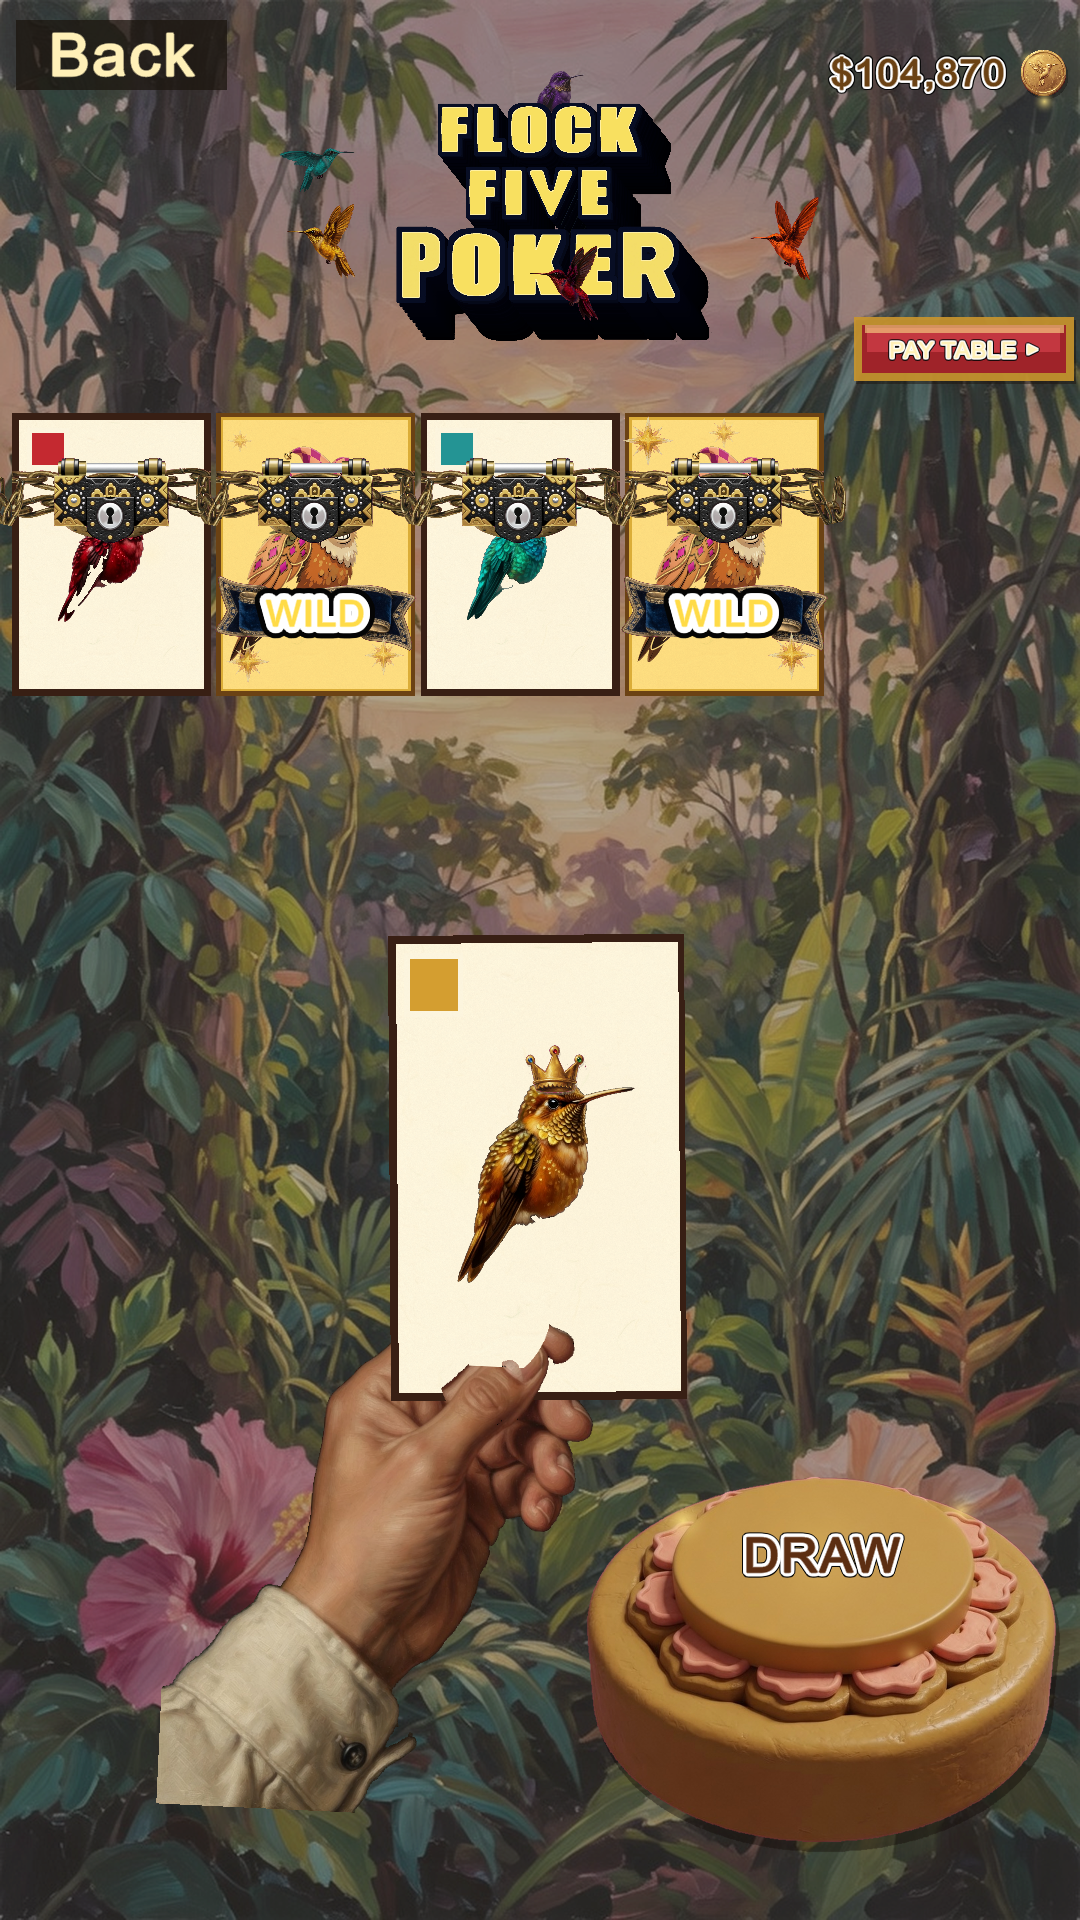
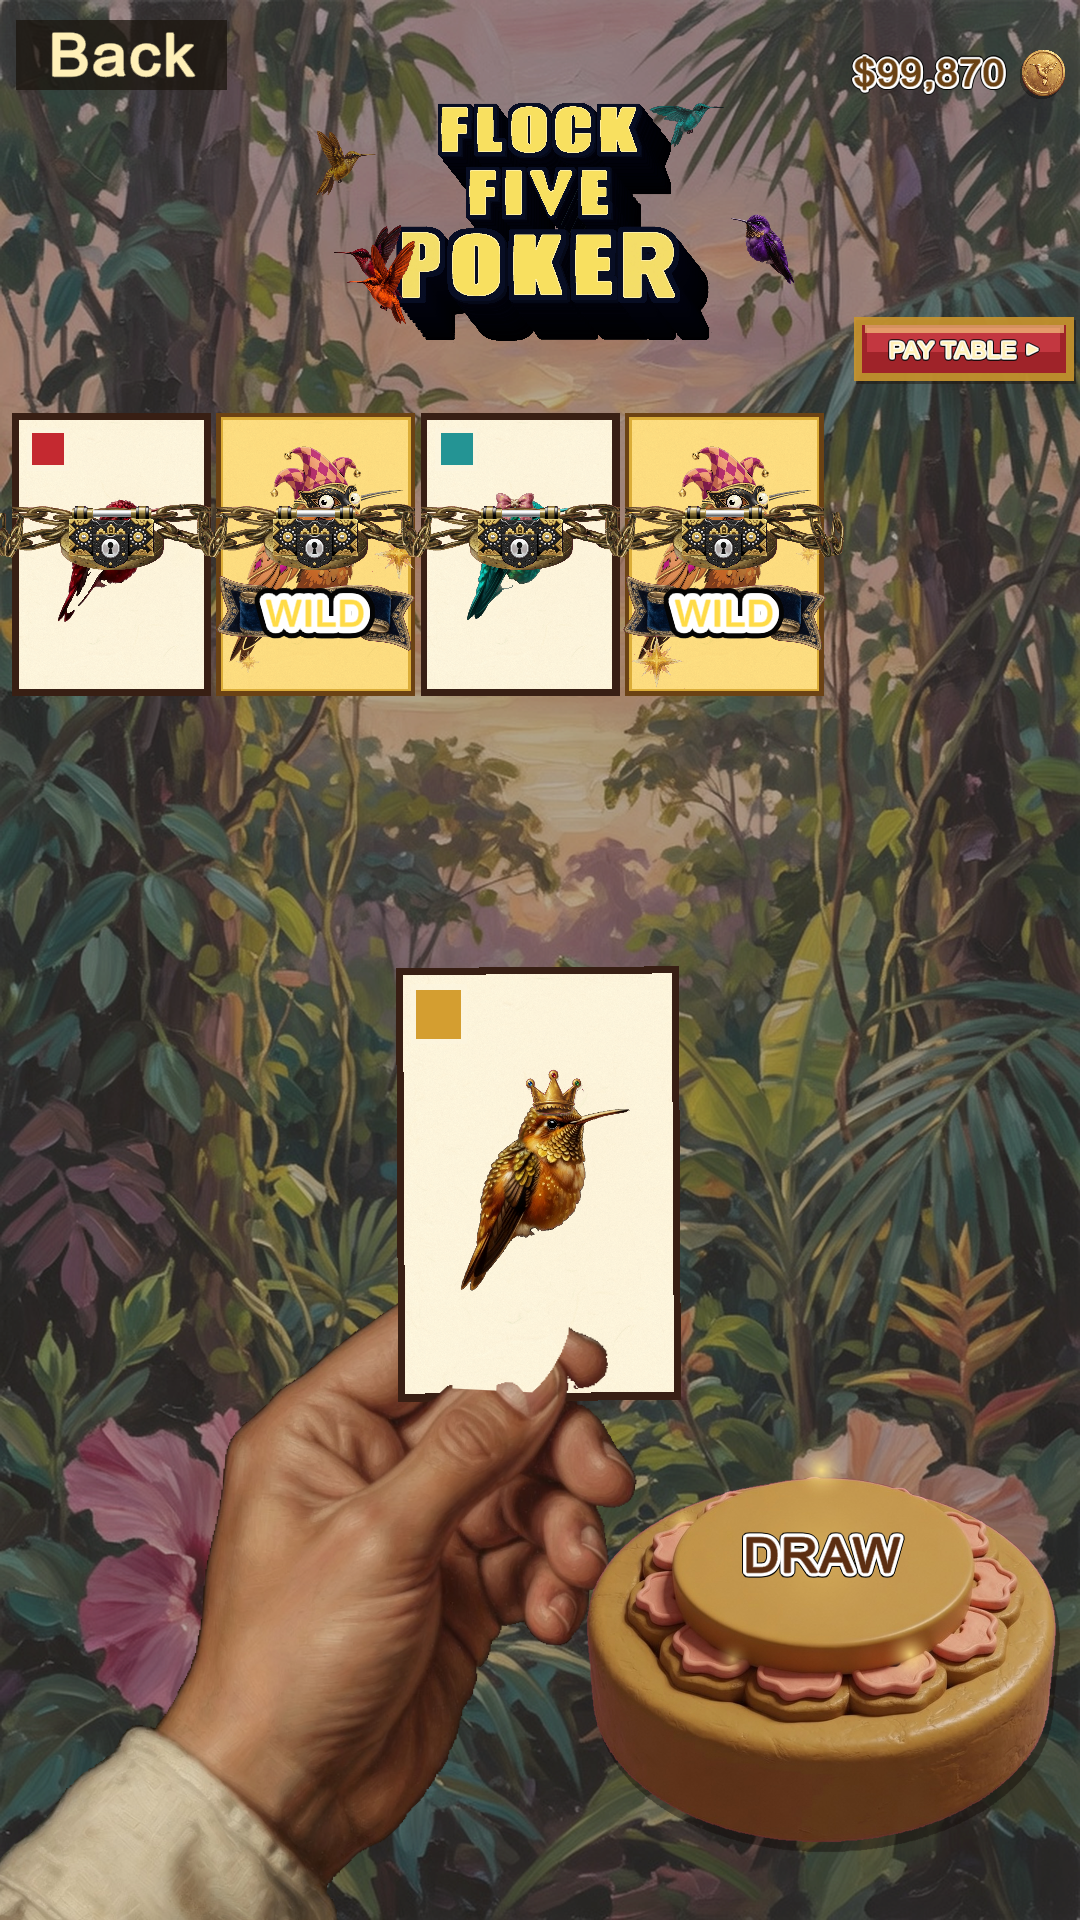
Poker: pass 5 — lower locks, unclip 5-fan thumb, arm offscreen
Thumb clip on the full fan was multi-card compositing: neighbor
seats (plus extra fan width) covered back-layer tip pixels. Draw
every live fan card, then the thumb; drop the 1.05 width scale;
expand the front pad to the full tip. Locks/chain sit mid-face
above the wild ribbon. Dest grows so the sleeve starts off the
left/bottom. Avoid, bottom pinch, thumb-front kept.

Playrun DONE 3/3, mid=0.

diff --git a/Assets/_Project/Scripts/App/FlockFiveApp.cs b/Assets/_Project/Scripts/App/FlockFiveApp.cs
@@ -1011,7 +1011,7 @@ namespace FlockFive
         {
             System.IO.Directory.CreateDirectory(dir);
             SpriteCatalog.DropPokerArt();
-            Debug.Log("Flock Five: ShotPokerFaces start " + dir + " pass4-thumb-front");
+            Debug.Log("Flock Five: ShotPokerFaces start " + dir + " pass5-locks-thumb-arm");
             _home = HomeFace.Poker;
             _splash = true;
             _pokerPayOpen = false;
@@ -4240,20 +4240,23 @@ namespace FlockFive
             {
                 DrawPokerFanHand(rowBox, cardW, cardH, s, false);
                 int[] order = PokerDrawOrder();
-                bool frontDone = false;
+                // Palm, then every live fan card, then thumb. A later seat must
+                // never redraw over the thumb (5-fan neighbor corners).
                 for (int o = 0; o < order.Length; o++)
                 {
                     int i = order[o];
-                    bool lifted = BirdPoker.Hold[i] && _pokerHoldSlide[i] > 0.22f;
-                    if (lifted && !frontDone)
-                    {
-                        DrawPokerFanHand(rowBox, cardW, cardH, s, true);
-                        frontDone = true;
-                    }
+                    if (PokerCardLifted(i)) continue;
                     var seat = new Rect(rowX + i * (cardW + gap), rowY, cardW, cardH);
                     DrawPokerCard(seat, i, s, holdH, rowBox);
                 }
-                if (!frontDone) DrawPokerFanHand(rowBox, cardW, cardH, s, true);
+                DrawPokerFanHand(rowBox, cardW, cardH, s, true);
+                for (int o = 0; o < order.Length; o++)
+                {
+                    int i = order[o];
+                    if (!PokerCardLifted(i)) continue;
+                    var seat = new Rect(rowX + i * (cardW + gap), rowY, cardW, cardH);
+                    DrawPokerCard(seat, i, s, holdH, rowBox);
+                }
                 DrawPokerKeepHint(rowBox, s);
                 DrawPokerFlames(rowBox, cardH, s);
                 DrawPokerDealHand(rowBox, cardW, cardH, s);
@@ -4894,7 +4897,7 @@ namespace FlockFive
         const float PokerFanSpan = 0.46f;
         // Full thumb pad/nail at the bottom-fan pinch (front layer = thumb only).
         const float PokerFanPinchU = 0.512f;
-        const float PokerFanPinchV = 0.48f;
+        const float PokerFanPinchV = 0.45f;
         const float PokerFanHandAspect = 0.80f;
 
         static float PokerAliveBreathe() => Mathf.Sin(Time.unscaledTime * 1.18f);
@@ -5419,7 +5422,22 @@ namespace FlockFive
                 + (0.90f * breathe + 0.18f * tick) * alive;
             float x = pinchX - w * PokerFanPinchU;
             float y = pinchY - h * PokerFanPinchV + (1f - u) * h * 0.35f;
-            if (x < -w * 0.08f) x = -w * 0.08f;
+            // Sleeve originates off the left/bottom. Keep the pinch locked.
+            if (x > -6f)
+            {
+                w = (pinchX + 6f) / Mathf.Max(0.12f, PokerFanPinchU);
+                h = w / PokerFanHandAspect;
+                x = pinchX - w * PokerFanPinchU;
+                y = pinchY - h * PokerFanPinchV + (1f - u) * h * 0.35f;
+            }
+            float needH = (Screen.height + 10f - pinchY) / Mathf.Max(0.12f, 1f - PokerFanPinchV);
+            if (h < needH)
+            {
+                h = needH;
+                w = h * PokerFanHandAspect;
+                x = pinchX - w * PokerFanPinchU;
+                y = pinchY - h * PokerFanPinchV + (1f - u) * h * 0.35f;
+            }
             float ang = 3.2f + 0.55f * breathe * alive;
             float squash = 1f + 0.006f * breathe * alive;
             var prev = GUI.matrix;
@@ -5508,8 +5526,8 @@ namespace FlockFive
             if (!_pokerChained && _pokerChainBreak < 0f) return;
             var spr = SpriteCatalog.Chain;
             var tex = spr != null ? spr.texture : null;
-            float h = Mathf.Clamp(wrap.height * 0.26f, 26f * s, 48f * s);
-            float midY = wrap.y + wrap.height * 0.32f;
+            float h = Mathf.Clamp(wrap.height * 0.24f, 24f * s, 44f * s);
+            float midY = wrap.y + wrap.height * 0.44f;
             // End loops live behind the card; lock + inner links sit on the face.
             var back = new Rect(wrap.center.x - wrap.width * 0.68f, midY - h * 0.40f, wrap.width * 1.36f, h * 0.80f);
             var front = new Rect(wrap.x, midY - h * 0.50f, wrap.width, h);
@@ -5606,10 +5624,10 @@ namespace FlockFive
         {
             var spr = SpriteCatalog.Padlock;
             if (spr == null || spr.texture == null) return;
-            float lockH = Mathf.Clamp(card.height * 0.30f, chainH * 1.15f, card.height * 0.36f);
+            float lockH = Mathf.Clamp(card.height * 0.22f, chainH * 0.92f, card.height * 0.26f);
             float lockW = lockH * 1.38f;
-            // Sit on the upper face so the wild ribbon (~0.72) stays clear.
-            float y = card.y + card.height * 0.16f;
+            // Mid-face, above the wild ribbon (~0.72) so the lock does not cover WILD.
+            float y = card.y + card.height * 0.33f;
             var lr = new Rect(card.center.x - lockW * 0.5f, y, lockW, lockH);
             DrawSprite(lr, spr, true);
         }
@@ -5753,7 +5771,7 @@ namespace FlockFive
                 GUIUtility.RotateAroundPivot(roll, rollPivot);
             GUIUtility.ScaleAroundPivot(new Vector2(sx, 1f), r.center);
             if (fanCard)
-                GUIUtility.ScaleAroundPivot(new Vector2(1.05f, 1.16f), rollPivot);
+                GUIUtility.ScaleAroundPivot(new Vector2(1f, 1.08f), rollPivot);
             bool wrapChain = held && showFace && chainLive;
             if (wrapChain) DrawPokerChain(r, s, true);
             if (showFace) DrawPokerFace(r, face, s, sparkle);
